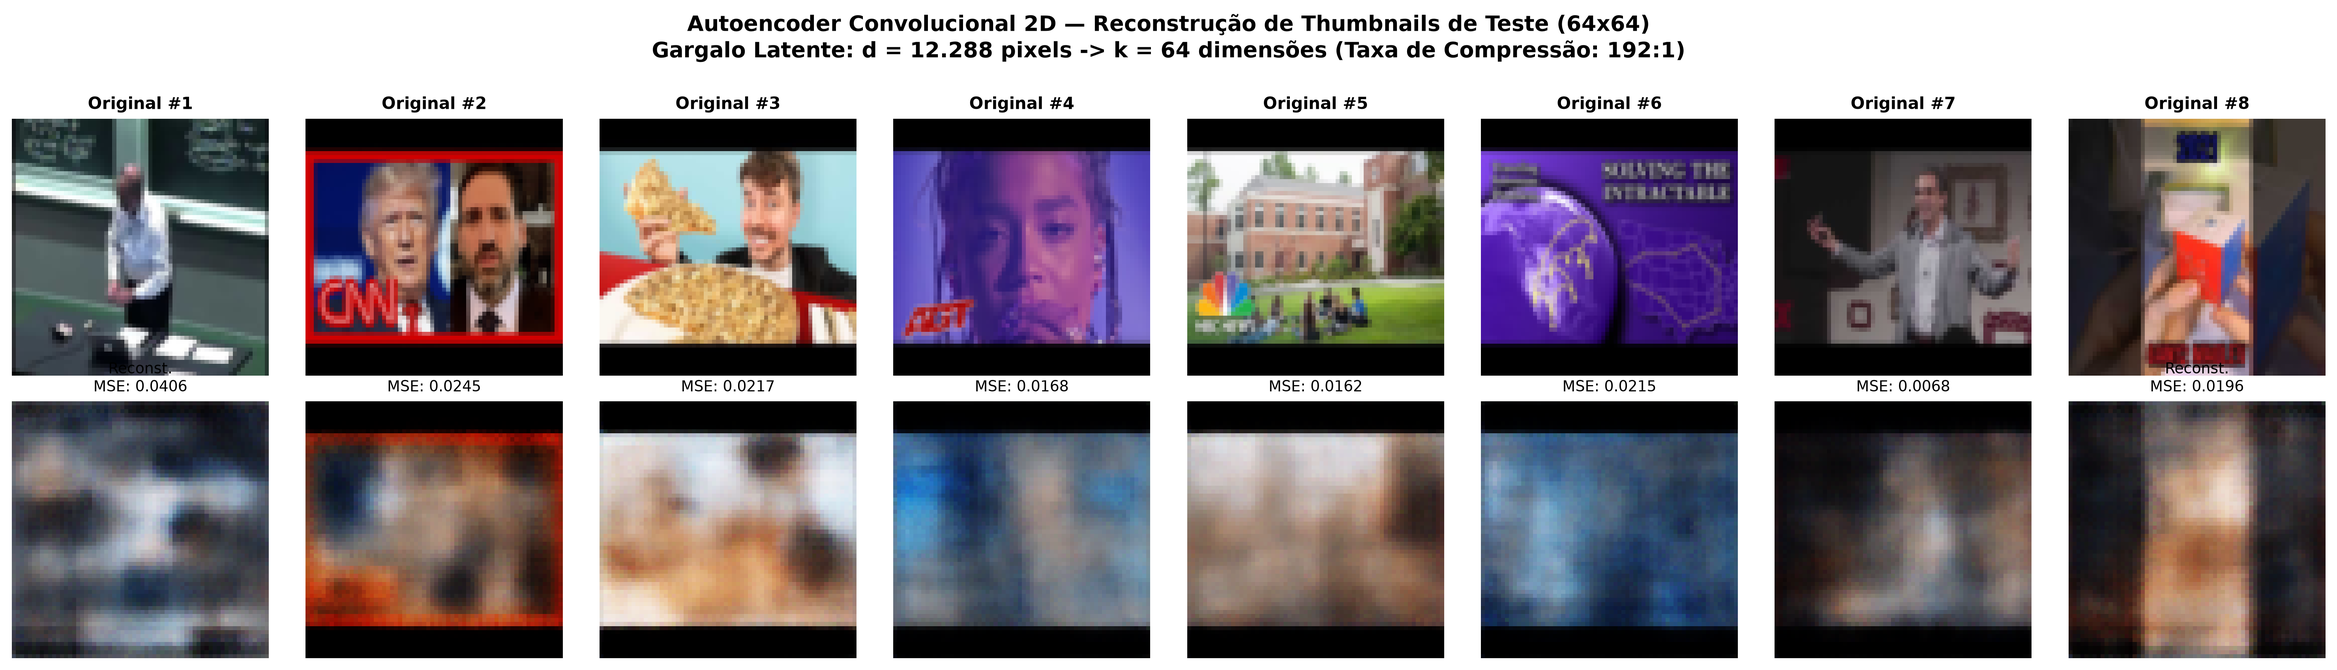
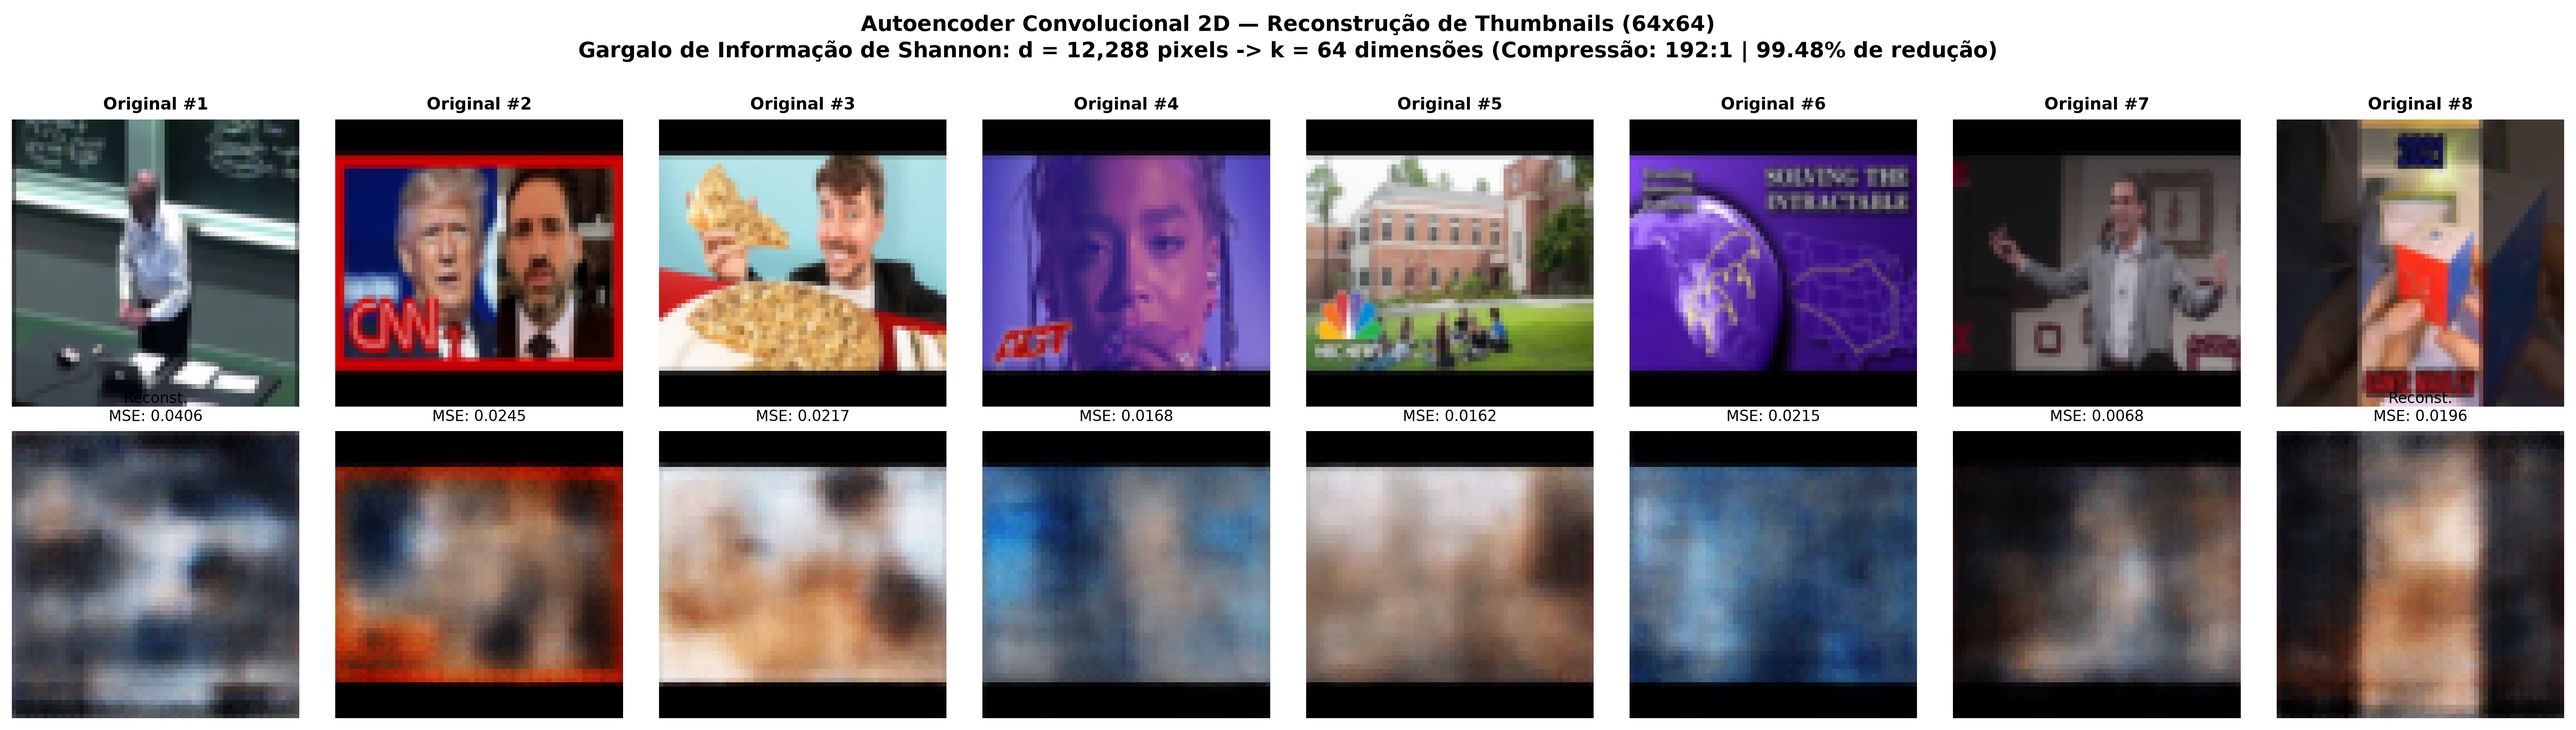
feat(embeddings): adiciona suporte a resolucao nativa 480x360 no autoencoder e job.sh

diff --git a/src/analyze_embeddings.py b/src/analyze_embeddings.py
@@ -2,11 +2,13 @@
 Análise do Espaço Latente (Embeddings) e Reconstrução Visual do Autoencoder.
 Disciplina: DCA3606 - Inteligência Artificial (DCA/UFRN)
 Projeto 2ª Unidade - Dia 3 (Slide 19 do Roteiro Oficial)
+Suporta execução em resolução 64x64 ou Nativa 480x360.
 """
 
 from pathlib import Path
 import sys
 import time
+import argparse
 import matplotlib
 matplotlib.use("Agg")
 import matplotlib.pyplot as plt
@@ -16,7 +18,7 @@ import pandas as pd
 from sklearn.decomposition import PCA
 from sklearn.manifold import TSNE
 from sklearn.ensemble import RandomForestClassifier, RandomForestRegressor
-from sklearn.metrics import accuracy_score, f1_score, mean_absolute_error, r2_score
+from sklearn.metrics import accuracy_score, r2_score
 
 PROJECT_ROOT = Path(__file__).resolve().parent.parent
 if str(PROJECT_ROOT) not in sys.path:
@@ -31,17 +33,32 @@ DATA_DIR = PROJECT_ROOT / "data" / "processed"
 DEVICE = torch.device("cuda" if torch.cuda.is_available() else "cpu")
 
 
-def run_embedding_analysis():
+def run_embedding_analysis(res: str = "480x360"):
     FIGURES_DIR.mkdir(parents=True, exist_ok=True)
-    cache_path = DATA_DIR / "dataset_cache_64x64.npz"
-    ae_path = MODELS_DIR / "autoencoder.pt"
+    REPORTS_DIR.mkdir(parents=True, exist_ok=True)
 
-    if not cache_path.exists():
-        raise FileNotFoundError(f"Cache não encontrado em {cache_path}")
-    if not ae_path.exists():
-        raise FileNotFoundError(f"Pesos do Autoencoder não encontrados em {ae_path}")
+    cache_path = DATA_DIR / f"dataset_cache_{res}.npz"
+    suffix = f"_{res}"
+    ae_path = MODELS_DIR / f"autoencoder{suffix}.pt"
 
-    print("Carregando tensores de teste e modelo Autoencoder...")
+    # Fallback transparente caso a resolução nativa ainda não tenha sido gerada no ambiente atual
+    if not cache_path.exists() or not ae_path.exists():
+        if res == "480x360":
+            print(f">> [AVISO] Cache ou modelo para {res} não encontrado. Tentando fallback para 64x64...")
+            fallback_cache = DATA_DIR / "dataset_cache_64x64.npz"
+            fallback_ae = MODELS_DIR / "autoencoder_64x64.pt" if (MODELS_DIR / "autoencoder_64x64.pt").exists() else MODELS_DIR / "autoencoder.pt"
+            if fallback_cache.exists() and fallback_ae.exists():
+                cache_path = fallback_cache
+                ae_path = fallback_ae
+                suffix = "_64x64"
+                res = "64x64"
+            else:
+                raise FileNotFoundError(f"Nem os arquivos de 480x360 nem o fallback 64x64 foram encontrados em {DATA_DIR} e {MODELS_DIR}.")
+        else:
+            raise FileNotFoundError(f"Arquivos não encontrados para resolução {res}.")
+
+    print(f">> Carregando dataset cache ({res}) de {cache_path.name}...")
+    print(f">> Carregando pesos do Autoencoder de {ae_path.name}...")
     data = np.load(cache_path)
     X_train = data["X_train"]
     y_class_train = data["y_class_train"]
@@ -53,26 +70,34 @@ def run_embedding_analysis():
     y_log_test = np.log10(y_views_test + 1.0)
     y_log_train = np.log10(y_views_train + 1.0)
 
-    # 1. Carregar Autoencoder (64x64)
-    model = ConvAutoencoder(latent_dim=64, target_shape=(64, 64)).to(DEVICE)
+    # Dimensões dinâmicas
+    target_h, target_w = X_train.shape[1], X_train.shape[2]
+    d_input = target_h * target_w * 3
+    compression_ratio = d_input / 64.0
+    compression_pct = (1.0 - (64.0 / d_input)) * 100.0
+
+    print(f">> Dimensão espacial: {target_w}x{target_h}x3 (d = {d_input:,} pixels) -> Latente k = 64")
+    print(f">> Razão de Compressão de Shannon: {compression_ratio:.1f}:1 ({compression_pct:.3f}% de redução)")
+
+    # 1. Carregar Autoencoder dinâmico
+    model = ConvAutoencoder(latent_dim=64, target_shape=(target_h, target_w)).to(DEVICE)
     model.load_state_dict(torch.load(ae_path, map_location=DEVICE))
     model.eval()
 
     # =========================================================================
     # PARTE 1: Amostras de Reconstrução Visual (Original vs Reconstruída)
     # =========================================================================
-    print("Gerando painel comparativo de reconstrução visual (Original vs Reconstruída)...")
+    print("Gerando painel comparativo de reconstrução visual em alta resolução...")
     np.random.seed(42)
     sample_indices = np.random.choice(len(X_test), size=8, replace=False)
     sample_imgs = X_test[sample_indices]
 
-    # Formato PyTorch: (N, C, H, W)
     tensors = torch.from_numpy(sample_imgs).permute(0, 3, 1, 2).float().to(DEVICE)
     with torch.no_grad():
         recon_tensors, _ = model(tensors)
         recon_imgs = recon_tensors.permute(0, 2, 3, 1).cpu().numpy()
 
-    fig, axes = plt.subplots(2, 8, figsize=(20, 5.5))
+    fig, axes = plt.subplots(2, 8, figsize=(22, 6))
     for i in range(8):
         orig = sample_imgs[i]
         rec = np.clip(recon_imgs[i], 0.0, 1.0)
@@ -87,20 +112,22 @@ def run_embedding_analysis():
         axes[1, i].axis("off")
 
     fig.suptitle(
-        "Autoencoder Convolucional 2D — Reconstrução de Thumbnails de Teste (64x64)\n"
-        "Gargalo Latente: d = 12.288 pixels -> k = 64 dimensões (Taxa de Compressão: 192:1)",
+        f"Autoencoder Convolucional 2D — Reconstrução de Thumbnails ({target_w}x{target_h})\n"
+        f"Gargalo de Informação de Shannon: d = {d_input:,} pixels -> k = 64 dimensões (Compressão: {compression_ratio:.0f}:1 | {compression_pct:.2f}% de redução)",
         fontsize=13, fontweight="bold", y=1.02
     )
     plt.tight_layout()
-    recon_fig_path = FIGURES_DIR / "autoencoder_reconstruction_samples.png"
-    plt.savefig(recon_fig_path, dpi=300, bbox_inches="tight")
+    recon_fig_res = FIGURES_DIR / f"autoencoder_reconstruction_samples{suffix}.png"
+    recon_fig_default = FIGURES_DIR / "autoencoder_reconstruction_samples.png"
+    plt.savefig(recon_fig_res, dpi=300, bbox_inches="tight")
+    plt.savefig(recon_fig_default, dpi=300, bbox_inches="tight")
     plt.close()
-    print(f" -> Salvo: {recon_fig_path.name}")
+    print(f" -> Painel de reconstrução salvo: {recon_fig_res.name}")
 
     # =========================================================================
     # PARTE 2: Extração de Embeddings e Projeções 2D (PCA e t-SNE)
     # =========================================================================
-    print("Extraindo embeddings latentes Z para o conjunto de teste...")
+    print("Extraindo embeddings latentes Z para os conjuntos de treino e teste...")
     test_tensor_all = torch.from_numpy(X_test).permute(0, 3, 1, 2).float().to(DEVICE)
     with torch.no_grad():
         Z_test = model.encode(test_tensor_all).cpu().numpy()
@@ -119,24 +146,22 @@ def run_embedding_analysis():
 
     fig, axes = plt.subplots(1, 2, figsize=(15, 6))
 
-    # Subplot A: PCA
     scatter_pca = axes[0].scatter(
         Z_pca[:, 0], Z_pca[:, 1],
         c=y_class_test, cmap="coolwarm", alpha=0.8, edgecolors="k", linewidth=0.5, s=45
     )
-    axes[0].set_title(f"Projeção PCA 2D (Linear)\nVar. Explicada: {var_exp[0]:.1f}% (PC1) + {var_exp[1]:.1f}% (PC2) = {sum(var_exp):.1f}%", fontsize=11, fontweight="bold")
+    axes[0].set_title(f"Projeção PCA 2D (Linear) — Resolução {target_w}x{target_h}\nVar. Explicada: {var_exp[0]:.1f}% (PC1) + {var_exp[1]:.1f}% (PC2) = {sum(var_exp):.1f}%", fontsize=11, fontweight="bold")
     axes[0].set_xlabel("Componente Principal 1")
     axes[0].set_ylabel("Componente Principal 2")
     axes[0].grid(True, linestyle="--", alpha=0.4)
     cbar1 = plt.colorbar(scatter_pca, ax=axes[0], ticks=[0, 1])
     cbar1.ax.set_yticklabels(["Baixo Engajamento", "Alto Engajamento"])
 
-    # Subplot B: t-SNE
     scatter_tsne = axes[1].scatter(
         Z_tsne[:, 0], Z_tsne[:, 1],
         c=y_log_test, cmap="viridis", alpha=0.85, edgecolors="k", linewidth=0.5, s=45
     )
-    axes[1].set_title("Projeção t-SNE 2D (Não-Linear, Perplexity=30)\nGradiente Contínuo de log10(Views)", fontsize=11, fontweight="bold")
+    axes[1].set_title(f"Projeção t-SNE 2D (Não-Linear) — Resolução {target_w}x{target_h}\nGradiente Contínuo de log10(Views)", fontsize=11, fontweight="bold")
     axes[1].set_xlabel("t-SNE Dimensão 1")
     axes[1].set_ylabel("t-SNE Dimensão 2")
     axes[1].grid(True, linestyle="--", alpha=0.4)
@@ -144,14 +169,16 @@ def run_embedding_analysis():
     cbar2.set_label("log10(Views + 1)")
 
     fig.suptitle(
-        "Mapeamento Bidimensional do Espaço Latente Z (k = 64) — Conjunto de Teste (N = 255)",
+        f"Mapeamento Bidimensional do Espaço Latente Z (k = 64) — Conjunto de Teste (N = {len(X_test)})",
         fontsize=13, fontweight="bold", y=1.02
     )
     plt.tight_layout()
-    latent_fig_path = FIGURES_DIR / "latent_space_tsne_pca.png"
-    plt.savefig(latent_fig_path, dpi=300, bbox_inches="tight")
+    latent_fig_res = FIGURES_DIR / f"latent_space_tsne_pca{suffix}.png"
+    latent_fig_default = FIGURES_DIR / "latent_space_tsne_pca.png"
+    plt.savefig(latent_fig_res, dpi=300, bbox_inches="tight")
+    plt.savefig(latent_fig_default, dpi=300, bbox_inches="tight")
     plt.close()
-    print(f" -> Salvo: {latent_fig_path.name}")
+    print(f" -> Projeções latentes salvas: {latent_fig_res.name}")
 
     # =========================================================================
     # PARTE 3: Tabela Oficial do Slide 19 (Efeito da Representação Aprendida)
@@ -191,8 +218,8 @@ def run_embedding_analysis():
     table_data = [
         {
             "Tarefa": "Classificação",
-            "Representação": "Atributos Originais (X)",
-            "Dimensão": "d = 12.288",
+            "Representação": f"Pixels Originais ({target_w}x{target_h})",
+            "Dimensão": f"d = {d_input:,}",
             "Taxa de Compressão": "1:1",
             "Métrica Principal": f"Acurácia: {acc_c_x:.2f}%",
             "Tempo Treino (s)": f"{t_train_c_x:.2f}s"
@@ -201,14 +228,14 @@ def run_embedding_analysis():
             "Tarefa": "Classificação",
             "Representação": "Embedding do AE (Z)",
             "Dimensão": "k = 64",
-            "Taxa de Compressão": "192:1 (99.48% menor)",
+            "Taxa de Compressão": f"{compression_ratio:.0f}:1 ({compression_pct:.2f}% menor)",
             "Métrica Principal": f"Acurácia: {acc_c_z:.2f}%",
             "Tempo Treino (s)": f"{t_train_c_z:.2f}s"
         },
         {
             "Tarefa": "Regressão",
-            "Representação": "Atributos Originais (X)",
-            "Dimensão": "d = 12.288",
+            "Representação": f"Pixels Originais ({target_w}x{target_h})",
+            "Dimensão": f"d = {d_input:,}",
             "Taxa de Compressão": "1:1",
             "Métrica Principal": f"R²_log: {r2_r_x:.2f}%",
             "Tempo Treino (s)": f"{t_train_r_x:.2f}s"
@@ -217,18 +244,24 @@ def run_embedding_analysis():
             "Tarefa": "Regressão",
             "Representação": "Embedding do AE (Z)",
             "Dimensão": "k = 64",
-            "Taxa de Compressão": "192:1 (99.48% menor)",
+            "Taxa de Compressão": f"{compression_ratio:.0f}:1 ({compression_pct:.2f}% menor)",
             "Métrica Principal": f"R²_log: {r2_r_z:.2f}%",
             "Tempo Treino (s)": f"{t_train_r_z:.2f}s"
         }
     ]
 
     df_effect = pd.DataFrame(table_data)
-    csv_path = REPORTS_DIR / "embedding_representation_effect.csv"
-    df_effect.to_csv(csv_path, index=False)
-    print(f" -> Tabela do Slide 19 salva em: {csv_path.name}")
+    csv_res = REPORTS_DIR / f"embedding_representation_effect{suffix}.csv"
+    csv_default = REPORTS_DIR / "embedding_representation_effect.csv"
+    df_effect.to_csv(csv_res, index=False)
+    df_effect.to_csv(csv_default, index=False)
+    print(f" -> Tabela salva em: {csv_res.name}")
     print("\n" + df_effect.to_string(index=False))
 
 
 if __name__ == "__main__":
-    run_embedding_analysis()
+    parser = argparse.ArgumentParser(description="Análise do Espaço Latente e Reconstrução Visual")
+    parser.add_argument("--res", type=str, default="480x360", choices=["64x64", "480x360"],
+                        help="Resolução para carregar e analisar (padrão: 480x360)")
+    args = parser.parse_args()
+    run_embedding_analysis(res=args.res)
